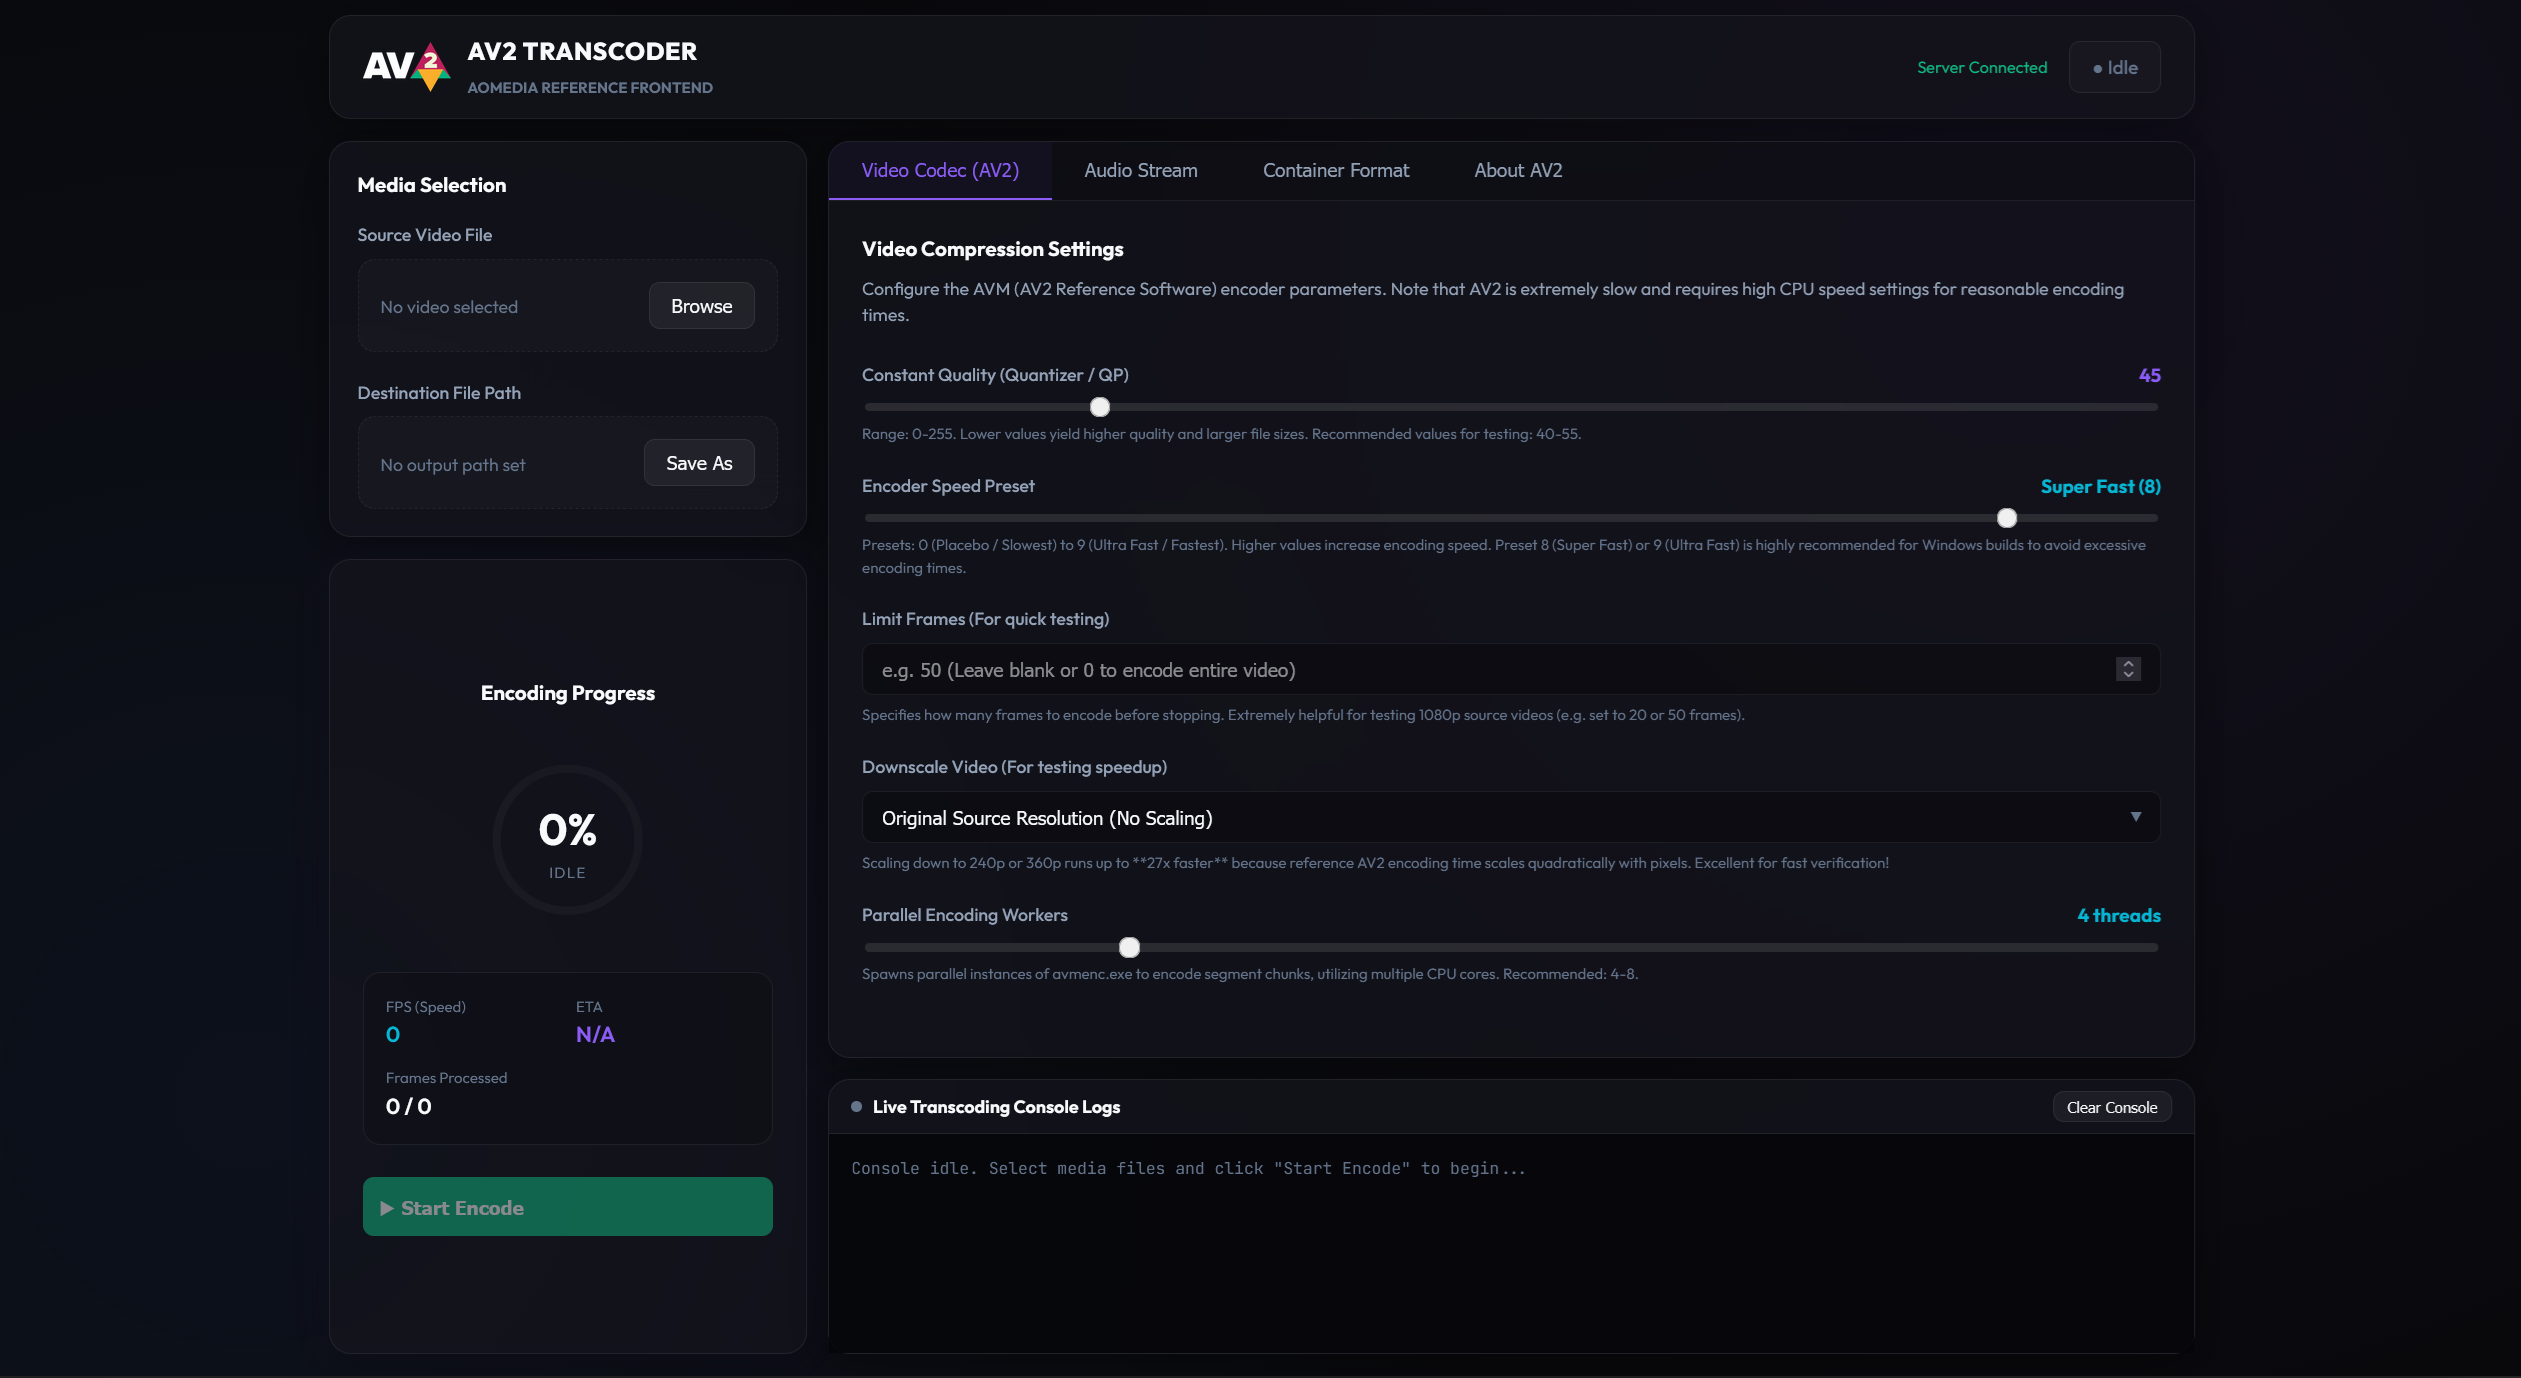
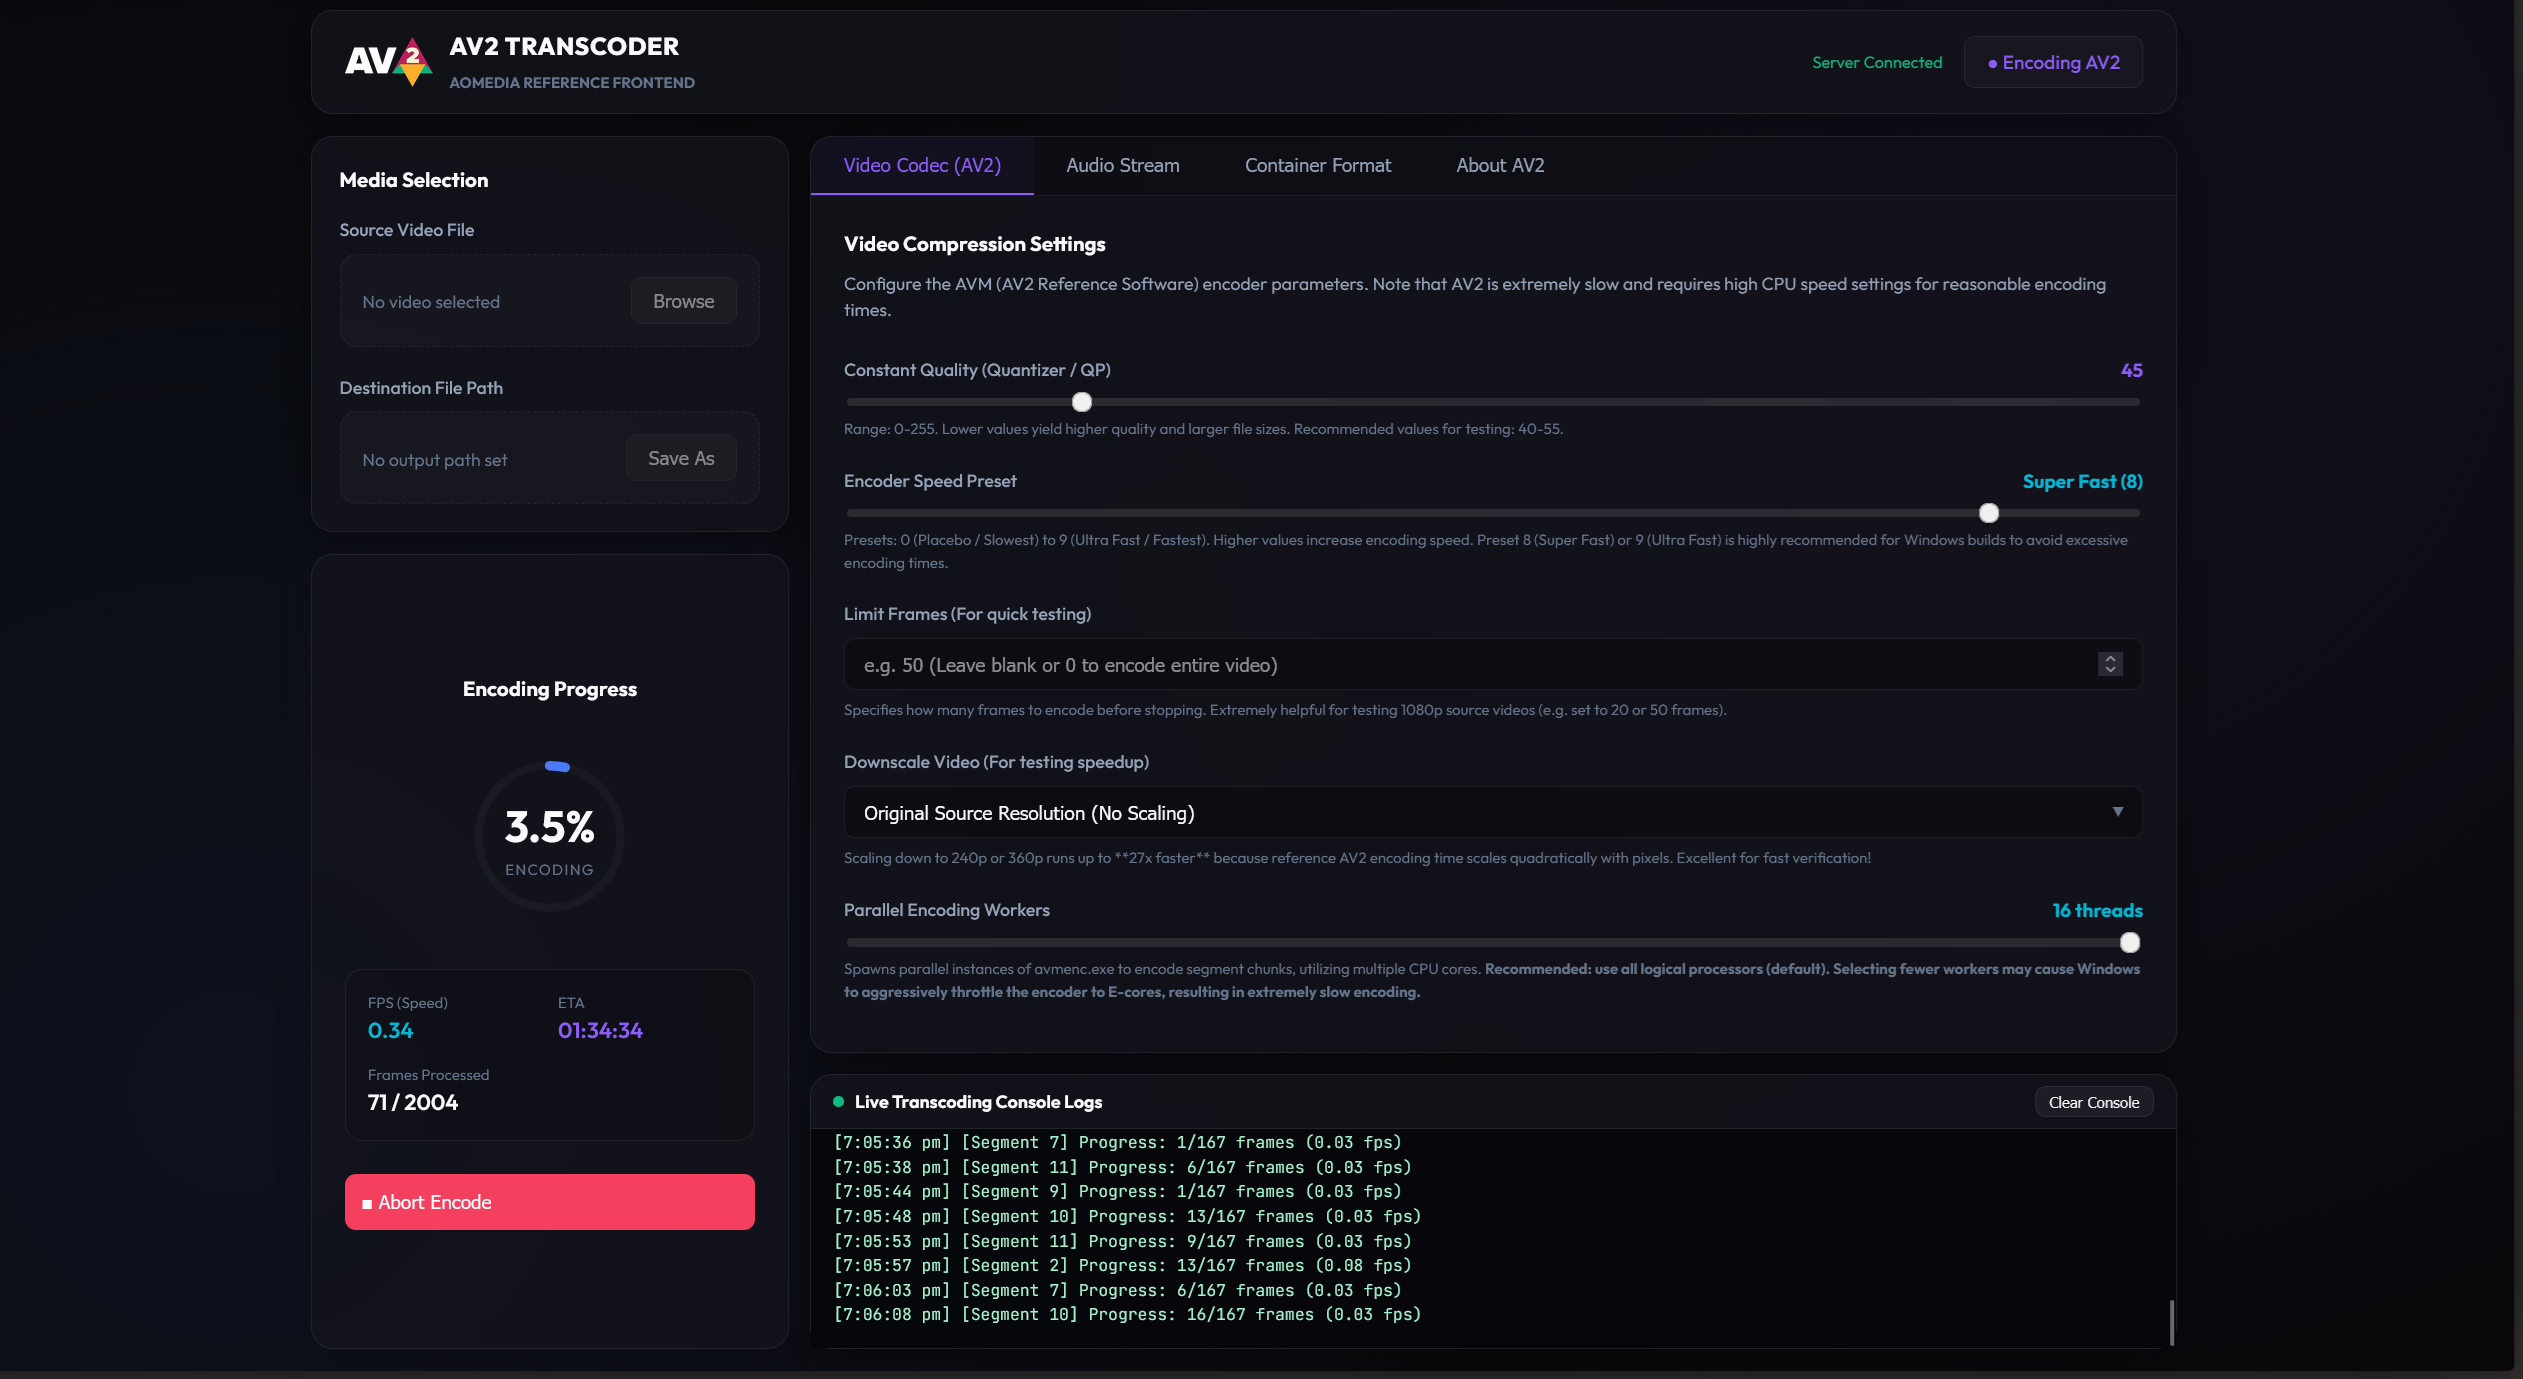
minor performance improvement

diff --git a/av2_gui/backend/encoder.js b/av2_gui/backend/encoder.js
@@ -44,6 +44,7 @@ const AVM_CRASH_EXIT_CODES = new Set([
   3221225477, // 0xC0000005 access violation, reported by Windows as an unsigned exit code.
   -1073741819
 ]);
+const ENCODER_PROGRESS_LOG_INTERVAL_MS = 10000;
 
 class CancellationError extends Error {
   constructor(message = 'Encoding cancelled') {
@@ -601,7 +602,12 @@ function runParallelAV2Encoders(segments, qp, speed, totalFrames, runId) {
     const pendingSegments = [...segments.keys()];
     const runningSegments = new Set();
     const attemptsBySegment = new Array(segments.length).fill(0);
-    const concurrency = Math.max(1, Math.min(segments.length, parseInt(segments.length) || 1));
+    const lastProgressLogAt = new Array(segments.length).fill(0);
+    const concurrency = Math.max(1, segments.length);
+    const logicalCpus = Math.max(1, os.cpus().length);
+    const encoderThreads = Math.max(1, Math.floor(logicalCpus / concurrency));
+    addLog(`Encoder threading: ${concurrency} parallel workers x ${encoderThreads} thread(s) each across ${logicalCpus} logical CPU(s).`);
+
     const progressTimer = setInterval(() => {
       if (!isActiveRun(runId)) {
         settleReject(new CancellationError());
@@ -631,12 +637,6 @@ function runParallelAV2Encoders(segments, qp, speed, totalFrames, runId) {
 
     function handleEncoderOutput(i, data, source) {
       const text = data.toString();
-      if (source === 'stdout') {
-        const trimmed = text.trim();
-        if (trimmed) {
-          addLog(`[Segment ${i} stdout] ${trimmed}`);
-        }
-      }
 
       if (!isActiveRun(runId)) {
         settleReject(new CancellationError());
@@ -674,24 +674,38 @@ function runParallelAV2Encoders(segments, qp, speed, totalFrames, runId) {
         if (segmentFps[i] === 0 && segmentFramesProcessed[i] > 0) {
           segmentFps[i] = segmentFramesProcessed[i] / elapsedSeconds;
         }
+        maybeLogSegmentProgress(i);
         updateProgress();
       }
     }
 
     function buildEncoderArgs(seg, attempt) {
+      const safeSpeed = Math.min(parseInt(speed) || 9, 8);
+      const threads = attempt === 1
+        ? encoderThreads
+        : (attempt === 2 ? Math.max(1, Math.floor(encoderThreads / 2)) : 1);
       const args = [
         '--disable-warning-prompt',
         `--qp=${qp}`,
-        `--cpu-used=${attempt >= 3 ? Math.min(parseInt(speed) || 9, 8) : speed}`,
+        `--cpu-used=${attempt >= 3 ? safeSpeed : speed}`,
+        `--threads=${threads}`,
       ];
-      if (attempt >= 2) {
-        args.push('--threads=1');
-      }
       if (seg.frames > 0) {
         args.push(`--limit=${seg.frames}`);
       }
       args.push('-o', seg.av2Path, seg.y4mPath);
       return args;
+    }
+
+    function maybeLogSegmentProgress(i) {
+      const now = Date.now();
+      if (now - lastProgressLogAt[i] < ENCODER_PROGRESS_LOG_INTERVAL_MS) return;
+      lastProgressLogAt[i] = now;
+
+      const frames = segmentFramesProcessed[i];
+      const total = segments[i].frames;
+      const fps = segmentFps[i] || 0;
+      addLog(`[Segment ${i}] Progress: ${frames}/${total} frames (${fps.toFixed(2)} fps)`);
     }
 
     function startNextSegments() {